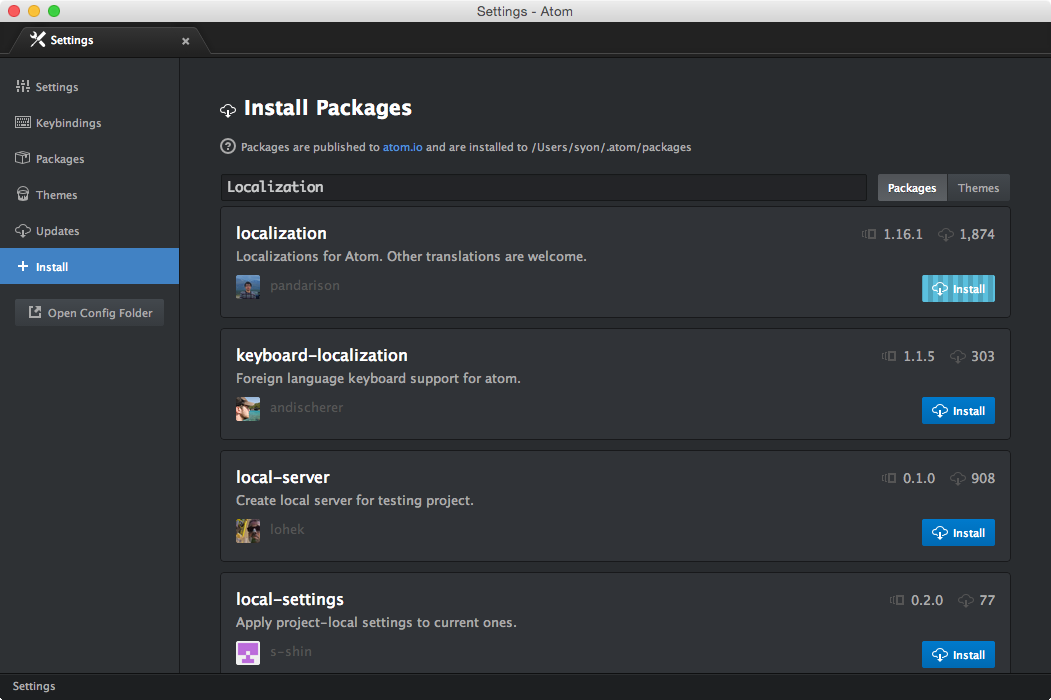
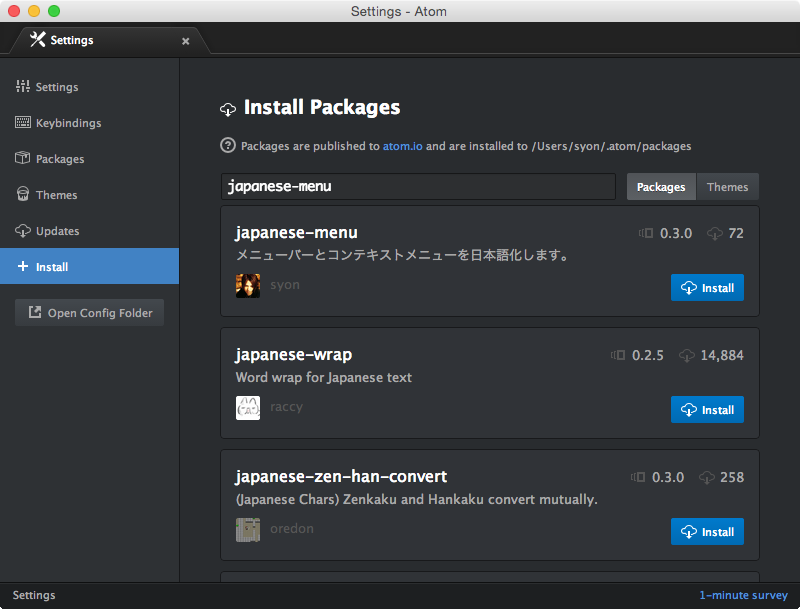
Atom package: Japanese Menu

diff --git a/_posts/2015-03-15-atom-package-install.md b/_posts/2015-03-15-atom-package-install.md
@@ -34,33 +34,15 @@ tags:
 
 ![](/postimg/2015/03/15-3.png)
 
-「__Localization__」というパッケージを検索してインストールします。
-
-### 再起動
+「 __japanese-menu__ 」というパッケージを検索してインストールします。
 
 ![](/postimg/2015/03/15-4.png)
 
-Atomを再起動します。
-
-### 設定を Japanese に変更
+はい、おわり。簡単ですね！
 
 ![](/postimg/2015/03/15-5.png)
 
-メニューの Packages に Localization が追加されているので、そこから Japanese を選択します。すると、自動的に Atom が再起動されてメニューが日本語化されているのが確認できます。
+右クリックで表示される、コンテキストメニューも日本語化されていますよ。
 
-![](/postimg/2015/03/15-6.png)
-
-### うまくいかないときは？
-
-![](/postimg/2015/03/15-7.png)
-
-Japanese を選択しても、Atomが再起動されず無反応な場合があります。そのような場合には Localization の設定画面で Current Language に Japanese と手打ちして再起動したところうまく反映されました。
-
-### 警告が出る (2015.03.15)
-
-![](/postimg/2015/03/15-8.png)
-
-Atomのウィンドウの右下に警告アイコンが表示されました。これについては、すでに GitHub に同じ内容の報告が上がっているので待っていれば対応されるかと思います。  
-状況が変わりましたらまた更新します。
-
-- [Issues · pandarison/Atom-Localization](https://github.com/pandarison/Atom-Localization/issues)
+日本語化の設定は以上です。  
+それでは、よい Atom ライフを。
